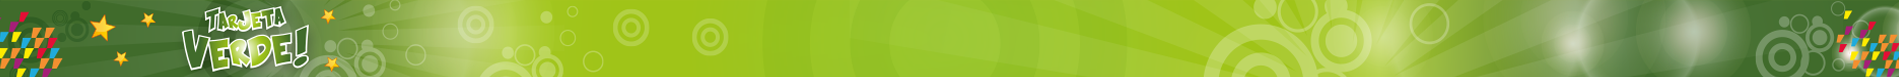
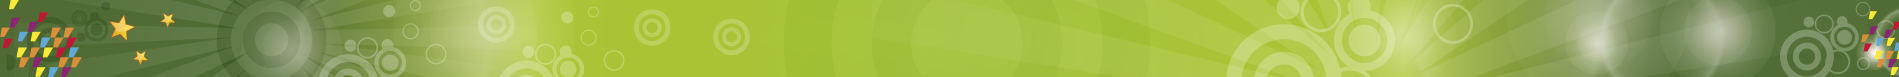
imagen del menu nuevo sin imagen

diff --git a/Src/PointEx.Web/Content/themes/Jovenes/Site.css b/Src/PointEx.Web/Content/themes/Jovenes/Site.css
@@ -121,8 +121,8 @@ a {
 /* Header */
 .pointex-header {
     background-color: #01781C;
-	/*background-image: url('/Content/themes/Jovenes/images/menu.png');
-	background-repeat: no-repeat;*/
+	background-image: url('/Content/themes/Jovenes/images/menu.png');
+	background-repeat: no-repeat;
 	height: 77px;
 	font-family: "Krash Blck";
 }
